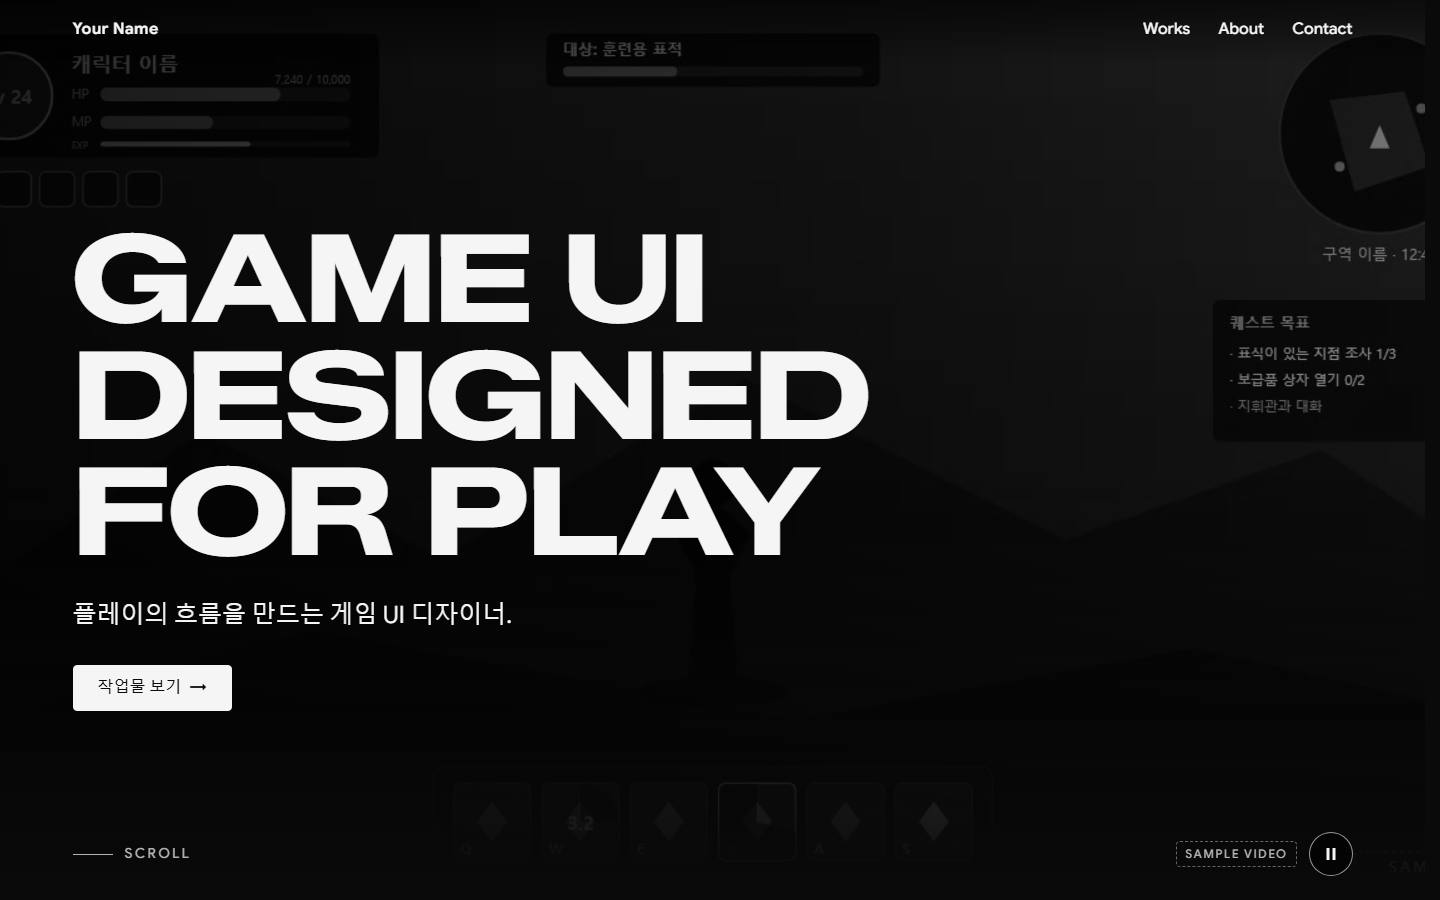
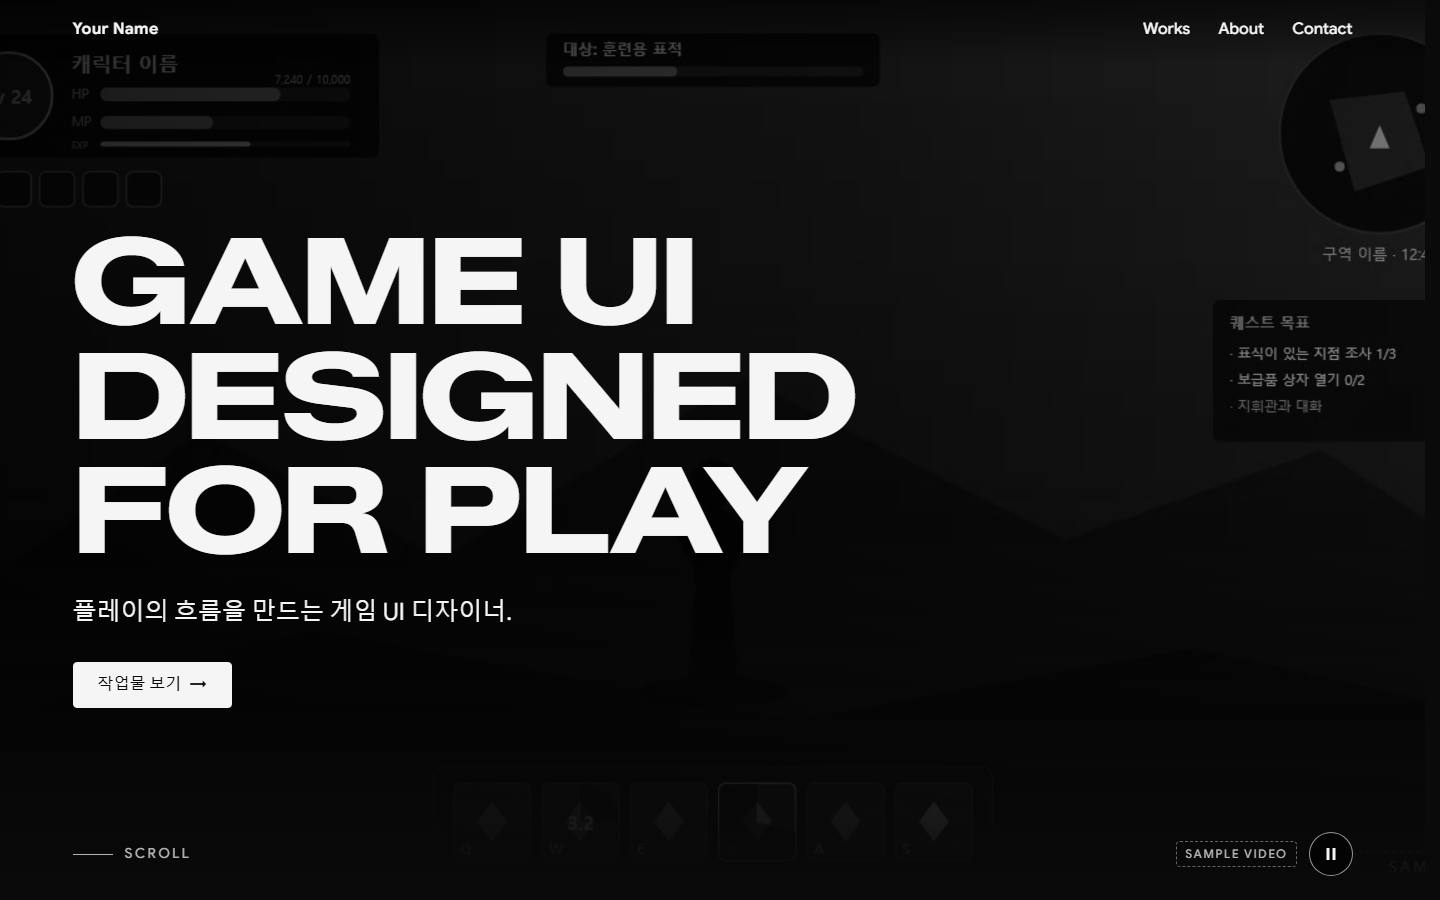
fix: PR #2 검토 R1·R2 대응 — 글자 확대 반영 제목, 가로 화면 영상 제어
R1
- 히어로 제목 크기를 rem 중심(+작은 vw)으로 변경, vw·cqi·svh 상한 제거
- 넘치면 글자를 줄이지 않고 줄바꿈(overflow-wrap, hyphens, lang=en), 히어로 높이 증가
- 긴 단어 끊을 위치를 soft hyphen으로 지정 (DESIGNED)
- 글자 200%에서 본문 바로가기 링크 끝이 보이던 문제 수정

R2
- 높이 480px 이하 화면에서 SAMPLE VIDEO·재생/정지를 히어로 맨 위(헤더 아래)로 이동
  (문서 흐름 안, 고정 아님, 제목 축소 없음)

점검·캡처
- verify: R1(글자 200% 전후 제목 1.5배 이상·3행·접근성), R2(가로 첫 화면 정지 버튼) 추가,
  히어로 겹침 검사를 요소 간 교차 검사로 변경
- screenshots: 가로 667, 글자 200% 모바일·데스크톱 캡처 추가, 전체 갱신

diff --git a/src/data/hero.ts b/src/data/hero.ts
@@ -7,7 +7,10 @@ import samplePoster from '../content/projects/rpg-hud-character-ui/images/hud-fi
  * 영상 경로는 public/ 기준 (예: 'videos/showreel.mp4'). 배포 하위 경로(BASE_PATH)는 자동 반영된다.
  */
 export interface HeroInfo {
-  /** 대형 제목 — 배열 1칸이 1행. 한 행은 영문 기준 8~9자 이내를 권장 */
+  /**
+   * 대형 제목 — 배열 1칸이 1행. 한 행은 영문 기준 8~9자 이내를 권장.
+   * 글자를 크게 키웠을 때 긴 단어가 끊길 위치는 \u00AD(soft hyphen)로 지정한다. 화면에 들어가면 보이지 않는다.
+   */
   titleLines: string[];
   description: string;
   /** 데스크톱 배경 영상. 여러 형식은 목록으로 (앞에서부터 재생 시도: mp4 → webm 권장). 비우면 포스터만 표시 */
@@ -29,7 +32,7 @@ export interface HeroInfo {
 }
 
 export const hero: HeroInfo = {
-  titleLines: ['GAME UI', 'DESIGNED', 'FOR PLAY'], // 임시 헤드라인 (최종 문구 미정)
+  titleLines: ['GAME UI', 'DE\u00ADSIGNED', 'FOR PLAY'], // 임시 헤드라인 (최종 문구 미정). \u00AD = 필요할 때만 'DE-/SIGNED'로 끊음
   description: '플레이의 흐름을 만드는 게임 UI 디자이너.',
   // 임시: 기존 RPG HUD 샘플 영상 (최종 흑백 UI 모션 쇼릴로 교체 예정)
   videoDesktop: 'videos/rpg-hud-interaction.webm',

diff --git a/src/styles/global.css b/src/styles/global.css
@@ -136,8 +136,10 @@ button {
 .skip-link {
   position: absolute;
   left: var(--space-4);
-  top: -100px;
+  top: var(--space-3);
   z-index: 100;
+  /* 링크 높이와 무관하게 화면 위로 완전히 숨김 (글자 확대 시 고정 px로 숨기면 끝이 보임) */
+  transform: translateY(calc(-100% - var(--space-4) - 1rem));
   padding: var(--space-3) var(--space-4);
   background: var(--color-inverse-bg);
   color: var(--color-inverse-text);
@@ -147,7 +149,7 @@ button {
 }
 
 .skip-link:focus {
-  top: var(--space-3);
+  transform: none;
 }
 
 .section {

diff --git a/README.md b/README.md
@@ -27,7 +27,7 @@ npm run check        # 타입·콘텐츠 스키마 검사
 ```bash
 npx playwright install chromium firefox webkit   # 최초 1회 (브라우저 약 1.2GB)
 npm run build
-npm run verify                                   # 3개 브라우저 × 14개 화면 너비 점검 (Chromium·Firefox 260개, WebKit 253개 항목)
+npm run verify                                   # 3개 브라우저 × 14개 화면 너비 점검 (Chromium·Firefox 269개, WebKit 262개 항목)
 BROWSERS=chromium SHOTS=1 npm run verify          # 크롬 계열만 + verify-report/에 스크린샷 저장
 npm run screenshots                              # 검토용 화면 캡처 → docs/screenshots/
 VERBOSE=1 npm run verify                         # 항목마다 바로 출력 (멈춘 위치 확인용)
@@ -88,7 +88,7 @@ scripts/screenshots.mjs         ← 검토용 화면 캡처 → docs/screenshots
 
 | 항목 | 설명 |
 | --- | --- |
-| `titleLines` | 대형 제목. 배열 1칸 = 1행 (현재 임시안 `GAME UI / DESIGNED / FOR PLAY`). 한 행은 영문 8~9자 이내를 권장합니다. 더 길면 글자 크기가 화면 폭에 맞춰 자동으로 작아집니다 |
+| `titleLines` | 대형 제목. 배열 1칸 = 1행 (현재 임시안 `GAME UI / DESIGNED / FOR PLAY`). 한 행은 영문 8~9자 이내를 권장합니다(기본 글자 크기에서 320px까지 한 줄 유지). 화면보다 길거나 사용자가 글자를 키우면 글자를 줄이지 않고 줄바꿈합니다. 긴 단어를 끊을 위치는 `\u00AD`(soft hyphen)로 지정합니다 (예: `'DE\u00ADSIGNED'` → 필요할 때만 `DE-` / `SIGNED`) |
 | `description` | 제목 아래 한 줄 소개 |
 | `videoDesktop` / `videoMobile` | 배경 영상 경로 (`public/` 기준). 여러 형식은 `['videos/reel.mp4', 'videos/reel.webm']`처럼 목록으로. 약 640px 미만에서는 `videoMobile`만, 그 이상에서는 `videoDesktop`만 받습니다. 둘 다 비우면 포스터만 표시하고 재생 버튼도 숨깁니다 |
 | `posterDesktop` / `posterMobile` | 영상 대신 먼저 보이는 이미지. `import`로 연결합니다 (파일 예시는 `hero.ts` 상단 참고) |
